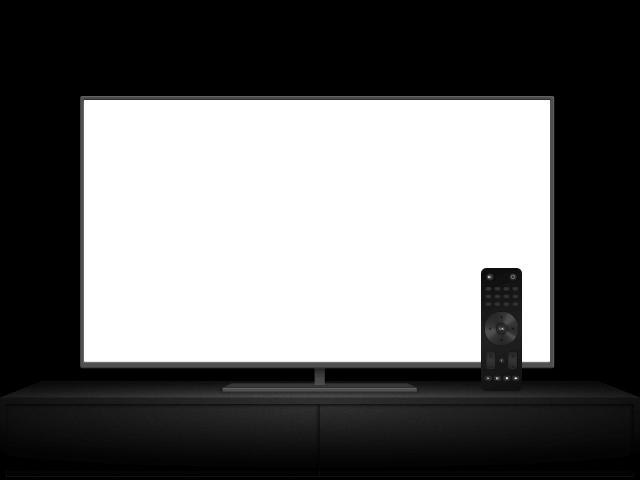
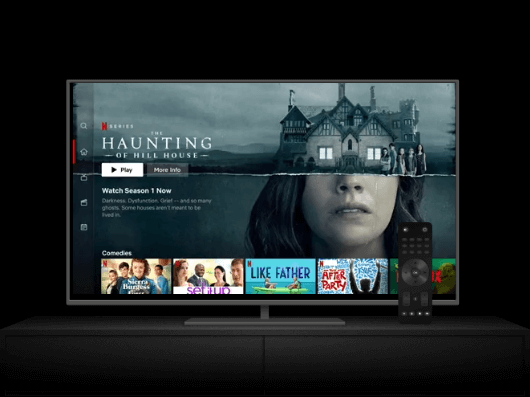
Add images

diff --git a/index.html b/index.html
@@ -56,6 +56,9 @@
                 </div>
                 <div class="col-md-6">
                     <img src="assets/img/story1.png" alt="">
+                        <source
+                            src="https://assets.nflxext.com/ffe/siteui/acquisition/ourStory/fuji/desktop/video-tv-0819.m4v"
+                            type="video/mp4"></video>
                 </div>
             </div>
         </div>
@@ -72,7 +75,7 @@
                     </div>
                 </div>
                 <div class="col-md-6">
-                    <img src="assets/img/story2.jpg" alt="">
+                    <img src="assets/img/story2.png" alt="">
                 </div>
             </div>
         </div>
@@ -299,4 +302,5 @@
     <script src="https://cdn.jsdelivr.net/npm/popper.js@1.16.0/dist/umd/popper.min.js"></script>
     <script src="js/bootstrap.min.js"></script>
 </body>
+
 </html
